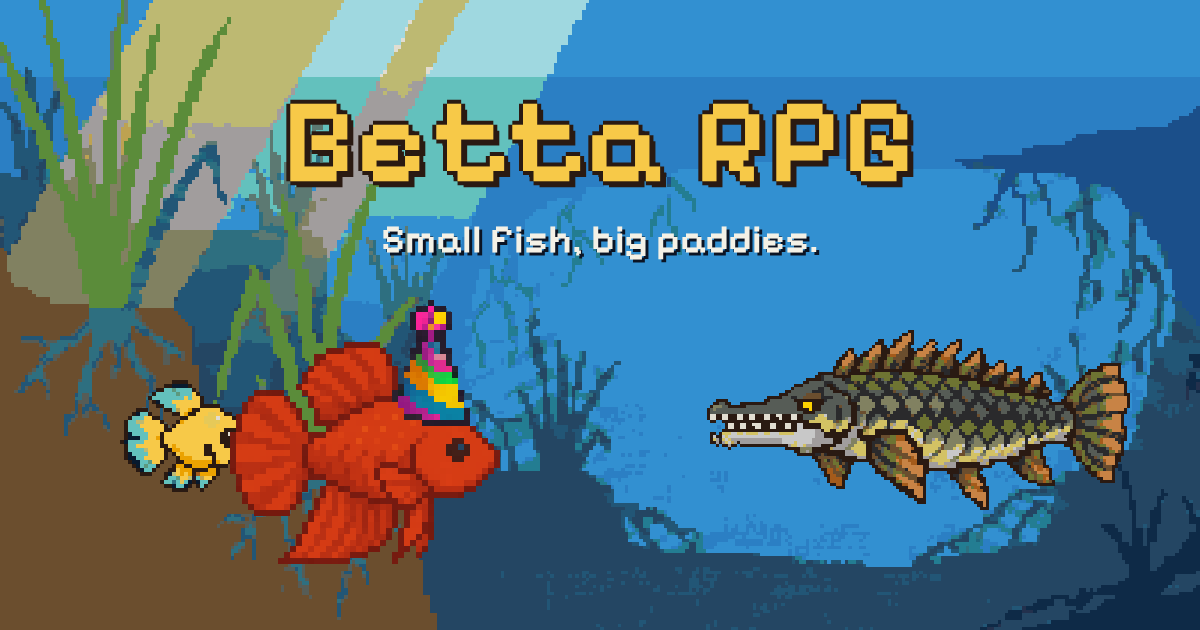
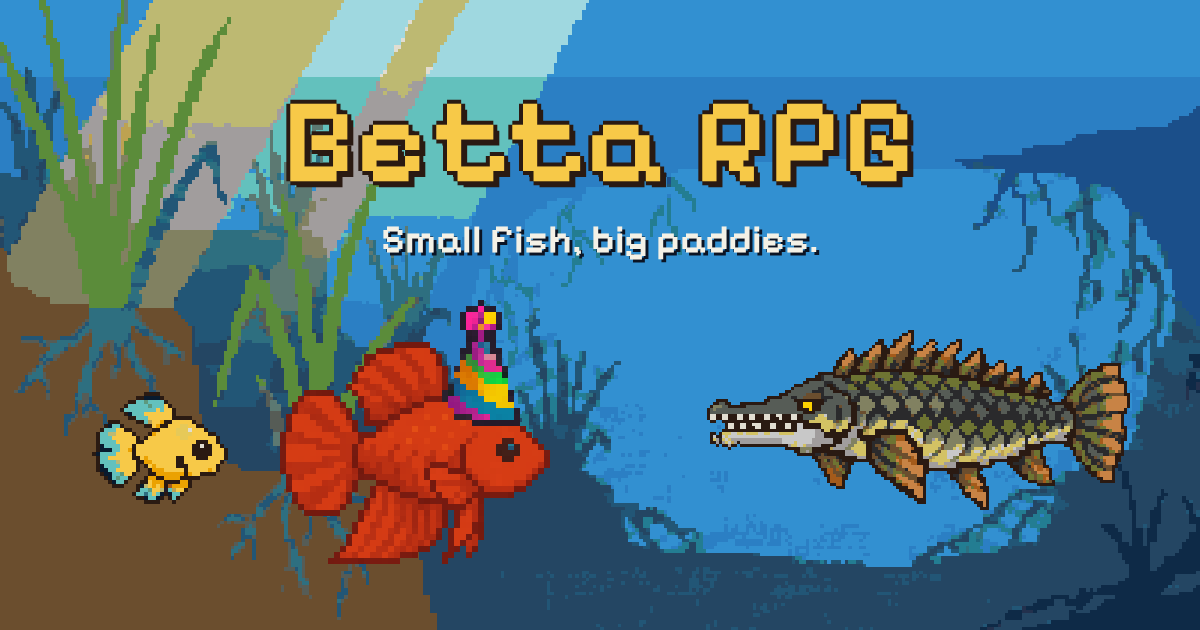
Social card and GitHub preview: Bubble swims beside the betta, not behind its tail

Changed region(s): [[0.0617, 0.4825, 0.4625, 0.9048]]

diff --git a/design/github-social.html b/design/github-social.html
@@ -3,8 +3,8 @@
 @font-face { font-family: 'Pixelify Sans'; src: url('../game/fonts/BettaPixel-600.ttf'); }
 html, body { font-variant-ligatures: none; font-feature-settings: 'liga' 0; margin: 0; width: 1280px; height: 640px; overflow: hidden; background: #123a66; }
 .bg { position: absolute; left: -40px; top: -40px; width: 1360px; height: 600px; image-rendering: pixelated; background: url('../game/assets/native/backdrops/title.png') center/cover; height: 710px; }
-.fish { position: absolute; left: 290px; top: 300px; width: 270px; image-rendering: pixelated; }
-.bub { position: absolute; left: 180px; top: 380px; width: 136px; image-rendering: pixelated; }
+.fish { position: absolute; left: 340px; top: 300px; width: 270px; image-rendering: pixelated; }
+.bub { position: absolute; left: 150px; top: 392px; width: 136px; image-rendering: pixelated; }
 .gar { position: absolute; right: 150px; top: 330px; width: 423px; image-rendering: pixelated; transform: scaleX(-1); }
 h1 { position: absolute; left: 0; right: 0; top: 70px; margin: 0; text-align: center; font: 600 120px 'Pixelify Sans'; color: #F7C948;
   text-shadow: 6px 6px 0 #2A1A12, -4px 0 0 #2A1A12, 0 -4px 0 #2A1A12, 4px 0 0 #2A1A12, 0 4px 0 #2A1A12; letter-spacing: 2px; }

diff --git a/design/social-card.html b/design/social-card.html
@@ -3,8 +3,8 @@
 @font-face { font-family: 'Pixelify Sans'; src: url('../game/fonts/BettaPixel-600.ttf'); }
 html, body { font-variant-ligatures: none; font-feature-settings: 'liga' 0; margin: 0; width: 1200px; height: 630px; overflow: hidden; background: #123a66; }
 .bg { position: absolute; left: -48px; top: -40px; width: 1296px; height: 600px; image-rendering: pixelated; background: url('../game/assets/native/backdrops/title.png') center/cover; height: 710px; }
-.fish { position: absolute; left: 230px; top: 300px; width: 270px; image-rendering: pixelated; }
-.bub { position: absolute; left: 120px; top: 380px; width: 136px; image-rendering: pixelated; }
+.fish { position: absolute; left: 280px; top: 300px; width: 270px; image-rendering: pixelated; }
+.bub { position: absolute; left: 92px; top: 392px; width: 136px; image-rendering: pixelated; }
 .gar { position: absolute; right: 70px; top: 330px; width: 423px; image-rendering: pixelated; transform: scaleX(-1); }
 h1 { position: absolute; left: 0; right: 0; top: 70px; margin: 0; text-align: center; font: 600 120px 'Pixelify Sans'; color: #F7C948;
   text-shadow: 6px 6px 0 #2A1A12, -4px 0 0 #2A1A12, 0 -4px 0 #2A1A12, 4px 0 0 #2A1A12, 0 4px 0 #2A1A12; letter-spacing: 2px; }
